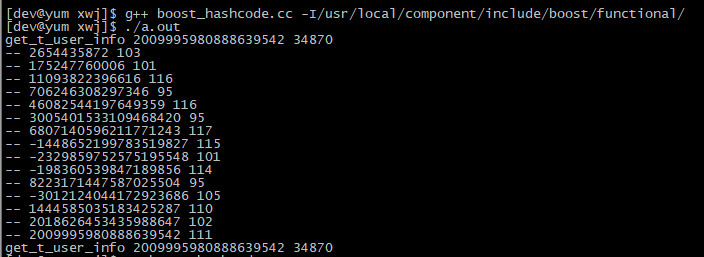
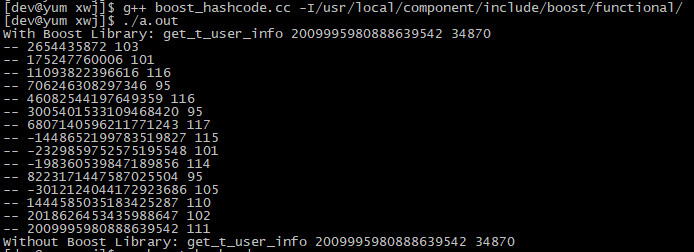
add files

Changed region(s): [[0.0, 0.0, 0.9986, 1.0]]

diff --git a/boost_hashcode.cc b/boost_hashcode.cc
@@ -1,21 +1,23 @@
 #include <iostream> 
 #include <string.h>
 #include <hash.hpp> 
- #include <stdio.h>  
-boost::hash<std::string> hash_fn;
+#include <stdio.h>  
 int main()
 {
     std::string st = "get_t_user_info";
-    std::size_t code = hash_fn("get_t_user_info");
-    printf("%s %ld %u\n", st.c_str(), code,  (unsigned short)code);
 
+    // Using Boost Library
+    boost::hash<std::string> hash_fn;
+    std::size_t code = hash_fn("get_t_user_info");
+    printf("With Boost Library: %s %ld %u\n", st.c_str(), code,  (unsigned short)code);
+
+    // Get Same Result Without Boost Library
     std::size_t seed = 0;
     for(std::string::iterator it = st.begin(); it != st.end(); ++it)
     {
         seed ^= size_t(*it) + 0x9e3779b9 + (seed<<6) + (seed>>2);
         printf("-- %ld %d\n", seed, *it);
     }
-    printf("%s %ld %u\n", st.c_str(), seed,  (unsigned short)seed); 
+    printf("Without Boost Library: %s %ld %u\n", st.c_str(), seed,  (unsigned short)seed); 
 
 }
-

diff --git a/README.md b/README.md
@@ -35,7 +35,7 @@ int main()
 
 }
 ```
-* Run
+* Run  
 ![image](image/02.jpg)
 
 
@@ -61,6 +61,6 @@ func main() {
     fmt.Println(st, seed, uint16(seed))
 }
 ```
-* Run
+* Run  
 ![image](image/01.jpg)
 
